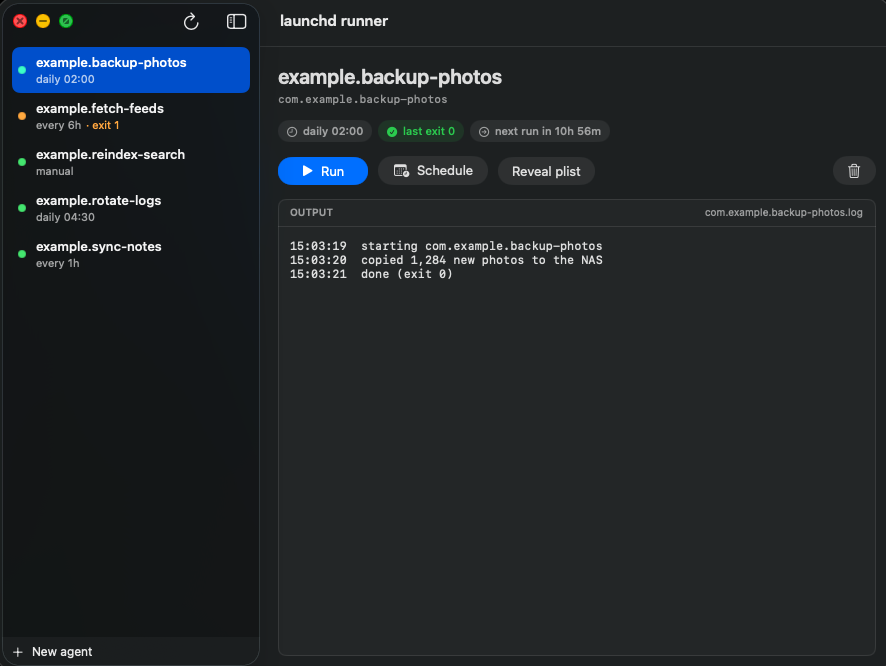
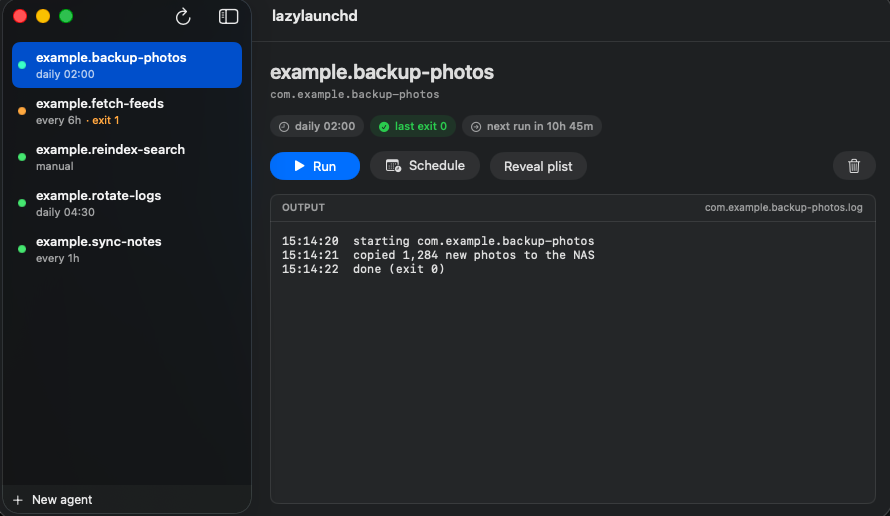
Rename to lazylaunchd
Same idea as lazygit and lazydocker: the lazier way to deal with something
fiddly. Repo, bundle, binary, window title, env var and screenshot all follow.

diff --git a/src/LazyLaunchd.swift b/src/LazyLaunchd.swift
@@ -1,10 +1,10 @@
-// LaunchdRunner - a small macOS app to run your own launchd agents by hand.
+// lazylaunchd - a small macOS app to run your own launchd agents by hand.
 //
 // launchd is good at running things on a schedule and bad at letting you run one
 // right now and watch what it did. This lists the agents in ~/Library/LaunchAgents,
 // runs the one you pick, and streams whatever that job writes to its log.
 //
-// Single file on purpose: `swiftc LaunchdRunner.swift` is the whole build.
+// Single file on purpose: `swiftc LazyLaunchd.swift` is the whole build.
 
 import SwiftUI
 import AppKit
@@ -92,11 +92,11 @@ enum Agents {
     /// write and has no reason to trigger by hand.
     static let skipPrefixes = ["com.apple.", "com.google.", "homebrew.", "com.github.facebook."]
 
-    /// Normally ~/Library/LaunchAgents. LAUNCHD_RUNNER_AGENTS_DIR points it somewhere
+    /// Normally ~/Library/LaunchAgents. LAZYLAUNCHD_AGENTS_DIR points it somewhere
     /// else, which is how the screenshots are taken against a folder of sample agents
     /// instead of whatever the author happens to have installed.
     static var directory: String {
-        if let override = ProcessInfo.processInfo.environment["LAUNCHD_RUNNER_AGENTS_DIR"],
+        if let override = ProcessInfo.processInfo.environment["LAZYLAUNCHD_AGENTS_DIR"],
            !override.isEmpty {
             return (override as NSString).expandingTildeInPath
         }
@@ -850,7 +850,7 @@ struct ContentView: View {
                     description: Text("Pick an agent on the left to run it now."))
             }
         }
-        .navigationTitle("launchd runner")
+        .navigationTitle("lazylaunchd")
         .frame(minWidth: 760, minHeight: 480)
         .onAppear {
             runner.refresh()
@@ -860,7 +860,7 @@ struct ContentView: View {
 }
 
 @main
-struct LaunchdRunnerApp: App {
+struct LazyLaunchdApp: App {
     var body: some Scene {
         WindowGroup {
             ContentView()

diff --git a/test/selftest-main.swift b/test/selftest-main.swift
@@ -1,6 +1,6 @@
 
 // ---- self check ----
-let LBL = "com.launchdrunner.selftest"
+let LBL = "com.lazylaunchd.selftest"
 let SCRIPT = "/tmp/lr-selftest.sh"
 let LOG = "/tmp/lr-selftest.log"
 let PLIST = (Agents.directory as NSString).appendingPathComponent("\(LBL).plist")

diff --git a/README.md b/README.md
@@ -1,4 +1,4 @@
-# launchd runner
+# lazylaunchd
 
 A small macOS app for running your own `launchd` agents by hand and watching what they do.
 
@@ -26,8 +26,8 @@ Needs the Xcode Command Line Tools for `swiftc` (`xcode-select --install`).
 Nothing else: SwiftUI ships with macOS, so the built app has no dependencies.
 
 ```sh
-git clone https://github.com/<you>/launchd-runner
-cd launchd-runner
+git clone https://github.com/<you>/lazylaunchd
+cd lazylaunchd
 ./install.sh              # builds and installs to ~/Applications
 ./install.sh /Applications  # or somewhere else
 ```
